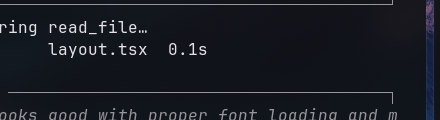
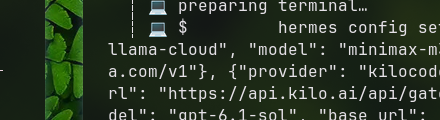
Refine glass optics: tighten bevel slope, soften specular highlights, and calibrate crystal-clear refraction

diff --git a/examples/glass-panel/src/main.rs b/examples/glass-panel/src/main.rs
@@ -393,19 +393,19 @@ impl AppData {
             let b0 = [spec[0] - spec[2] * 0.5, spec[1] - spec[3] * 0.5, spec[2], spec[3]];
             let play_flag = if self.is_playing { 1.0f32 } else { 0.0f32 };
 
-            // Apple Liquid Glass Media Control Island
+            // Liquid Glass Media Control Island
             let island = GlassSurface::new()
                 .material(Material::LiquidGlass)
                 .shape(Shape::Capsule)
                 .bounds(b0[0], b0[1], b0[2], b0[3])
-                .curvature(0.09)
-                .bevel(12.0)
-                .refraction(0.70)
-                .dispersion(0.025)
-                .blur(5.0)
+                .curvature(0.05)
+                .bevel(8.0)
+                .refraction(0.55)
+                .dispersion(0.015)
+                .blur(4.0)
                 .tint(play_flag, self.track_progress, self.hover_play_pos, self.elapsed_sec)
-                .specular(0.95)
-                .fresnel(0.70)
+                .specular(0.80)
+                .fresnel(0.55)
                 .element_type(35.0)
                 .progress(if self.is_pressed { 1.0 } else { 0.0 })
                 .pointer_pos(px, py)

diff --git a/glass-ui/src/lib.rs b/glass-ui/src/lib.rs
@@ -23,18 +23,18 @@ impl GlassCard {
             bounds: [x, y, w, h],
             shape: Shape::RoundedRectangle { radius: 24.0 },
             material: Material::LiquidGlass,
-            blur_radius: 24.0,
-            refraction: 0.70,
-            dispersion: 0.03,
-            bevel: 10.0,
-            specular: 0.95,
-            fresnel: 0.70,
-            tint: [1.0, 1.0, 1.0, 0.06],
+            blur_radius: 16.0,
+            refraction: 0.50,
+            dispersion: 0.015,
+            bevel: 7.0,
+            specular: 0.80,
+            fresnel: 0.55,
+            tint: [1.0, 1.0, 1.0, 0.04],
         }
     }
 
     pub fn island(x: f32, y: f32, w: f32, h: f32) -> Self {
-        Self::new(x, y, w, h).shape(Shape::Capsule).bevel(12.0).specular(1.0)
+        Self::new(x, y, w, h).shape(Shape::Capsule).bevel(8.0).specular(0.85)
     }
 
     pub fn shape(mut self, shape: Shape) -> Self {
@@ -454,7 +454,7 @@ mod tests {
             .refraction(0.85);
         let s = card.to_surface();
         assert_eq!(s.bounds, [0.1, 0.1, 0.8, 0.8]);
-        assert_eq!(s.bevel, 12.0);
+        assert_eq!(s.bevel, 8.0);
     }
 
     #[test]
